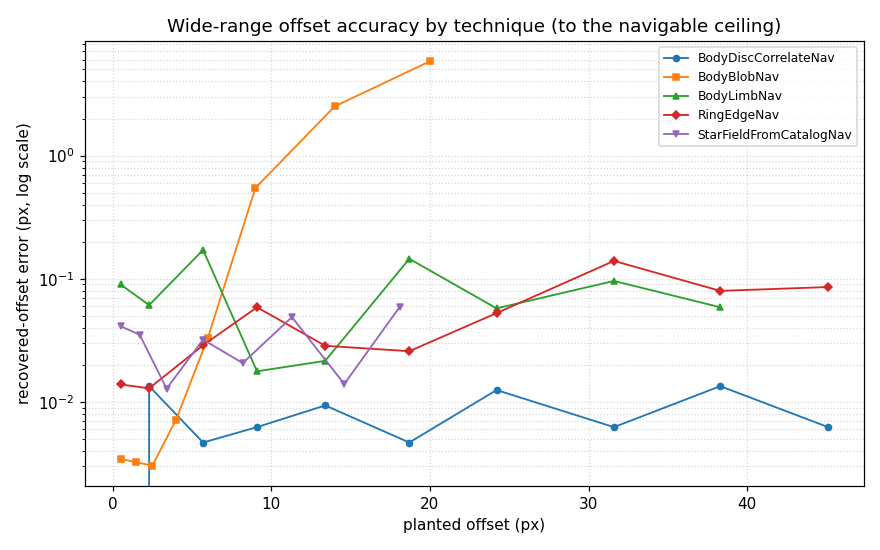
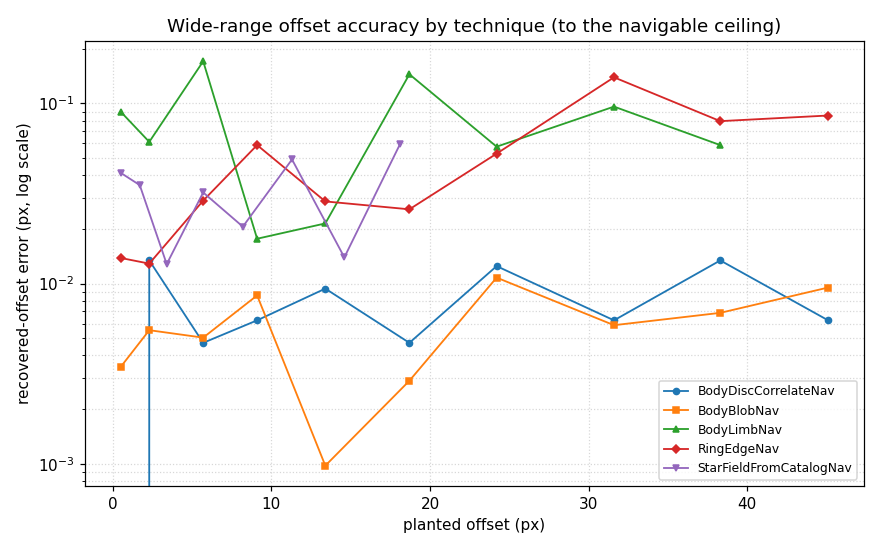
docs: regen wide-offset figure for the extended blob capture range
The blob-shaped-disc coarse acquisition extends BodyBlobNav's recovery from
~6 px to the extfov margin, so the wide-offset sweep and its figure were stale.
Extend blob_offset_wide to the same ~45 px range as the disc/ring sweeps, regen
the offset_accuracy_wide / _fine figures from the re-run blob sweeps (blob now
holds <0.01 px out to ~45 px, was ~5.8 px at 20 px), and update the report's
wide-range text and caption. Sweep result JSONs are gitignored diagnostic
artifacts, so only the figures, the sweep spec, and the prose change.

diff --git a/docs/simulator_report/simulator_report.rst b/docs/simulator_report/simulator_report.rst
@@ -451,21 +451,24 @@ pixel; the distance-transform techniques carry a larger sub-pixel residual:
   bright field to ~0.005 px. The dim/bright split is detailed below; the per-star
   centroiding mechanism is in :doc:`/dev_guide/dev_guide_techniques_star_field`.
 
-The wide-range sweep confirms each technique recovers across the navigable range,
-and exposes the blob's capture limit:
+The wide-range sweep confirms each technique recovers across the navigable range:
 
 .. figure:: _figures/offset_accuracy_wide.png
    :width: 100%
    :alt: Wide-range offset recovery error by technique.
 
    Recovered-offset error vs planted offset across the navigable range. Disc,
-   ring, limb, and star recover to their ceilings; the blob is accurate only
-   within its bbox, degrading sharply once the body clips the integration window.
+   ring, limb, blob, and star each recover to their ceilings; the blob now tracks
+   the body across the full window via its coarse acquisition.
 
 The disc, ring, limb, and star recover with the same accuracy out to their
-ceilings (~48, ~48, ~40, ~20 px). The **blob is a small-offset technique**: for
-the 20 px body it holds under 0.05 px out to ~6 px, then degrades (~0.85 px at
-10 px, ~5.8 px at 20 px) as the body clips out of the predicted bbox. See
+ceilings (~48, ~48, ~40, ~20 px). The **blob now holds across the navigable
+range too**: for the 20 px body it stays under ~0.01 px out to ~45 px, where it
+was previously a ~6 px small-offset technique (degrading to ~5.8 px at 20 px) --
+the blob-shaped-disc coarse acquisition re-centres the integration window on the
+body before the centroid, so the body no longer clips out of the predicted bbox.
+The disc template models only a near-full disc, so this holds for bodies at least
+half-lit; a high-phase crescent beyond its bbox still needs a prior. See
 :doc:`/dev_guide/dev_guide_techniques_body_blob`.
 
 Star-field centroiding: dim vs bright
